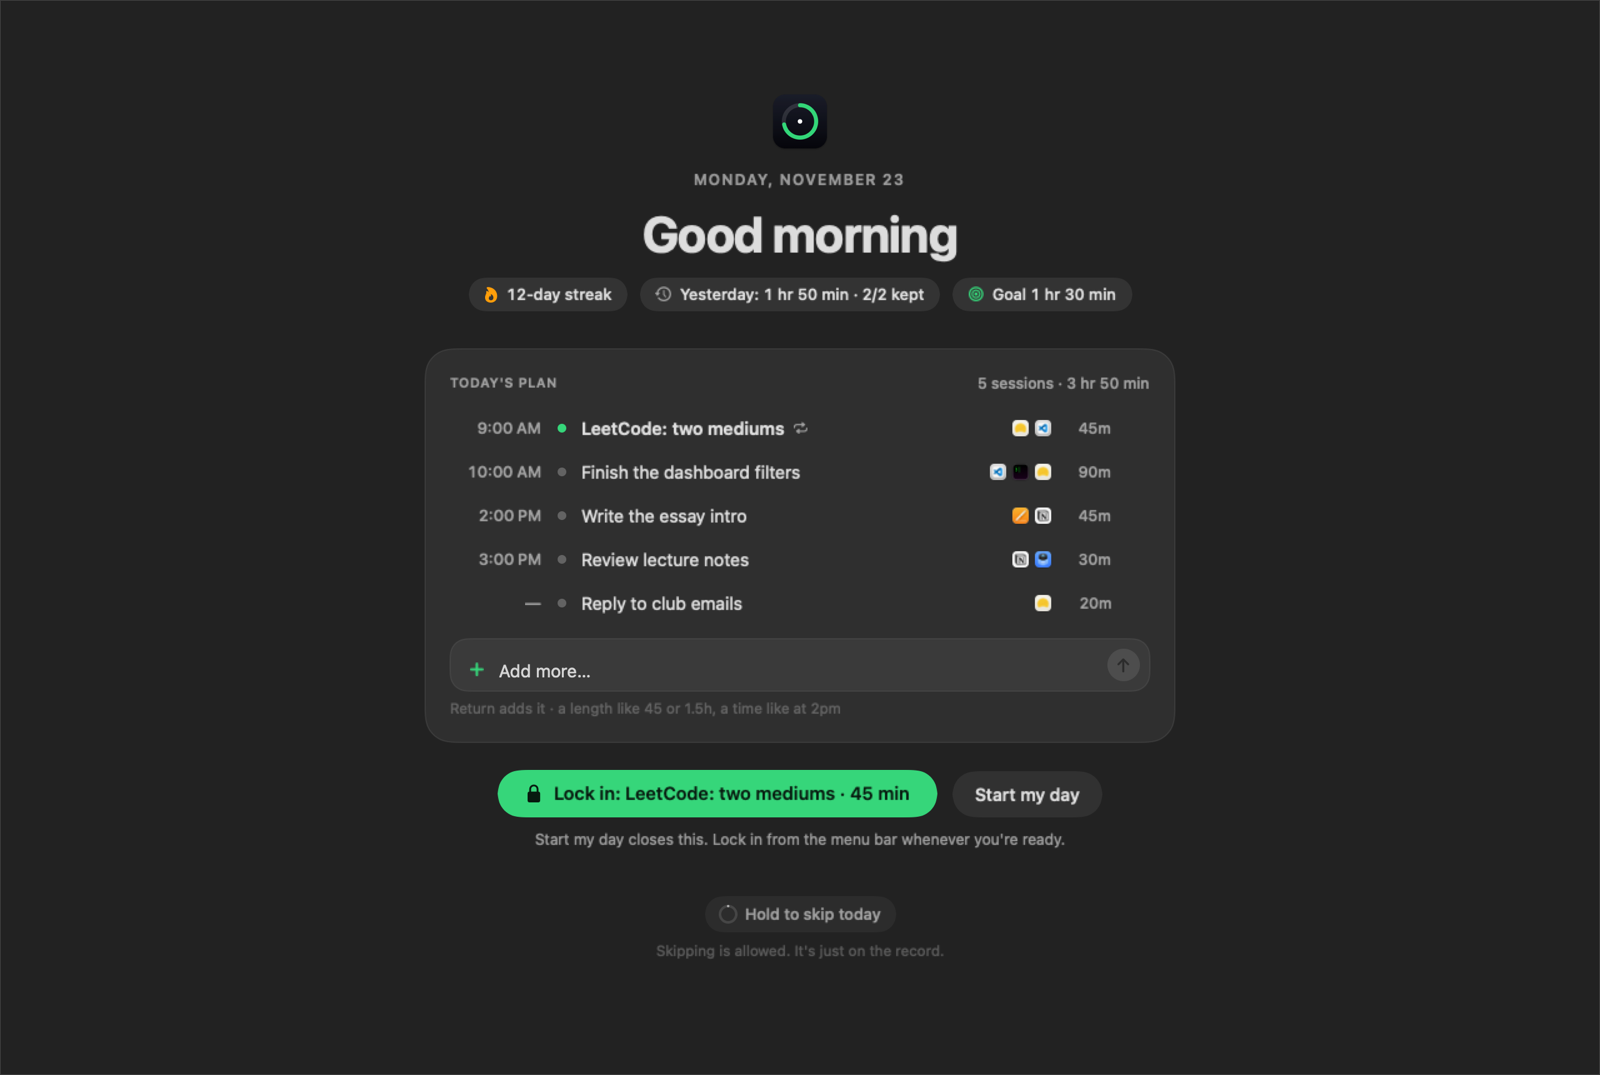
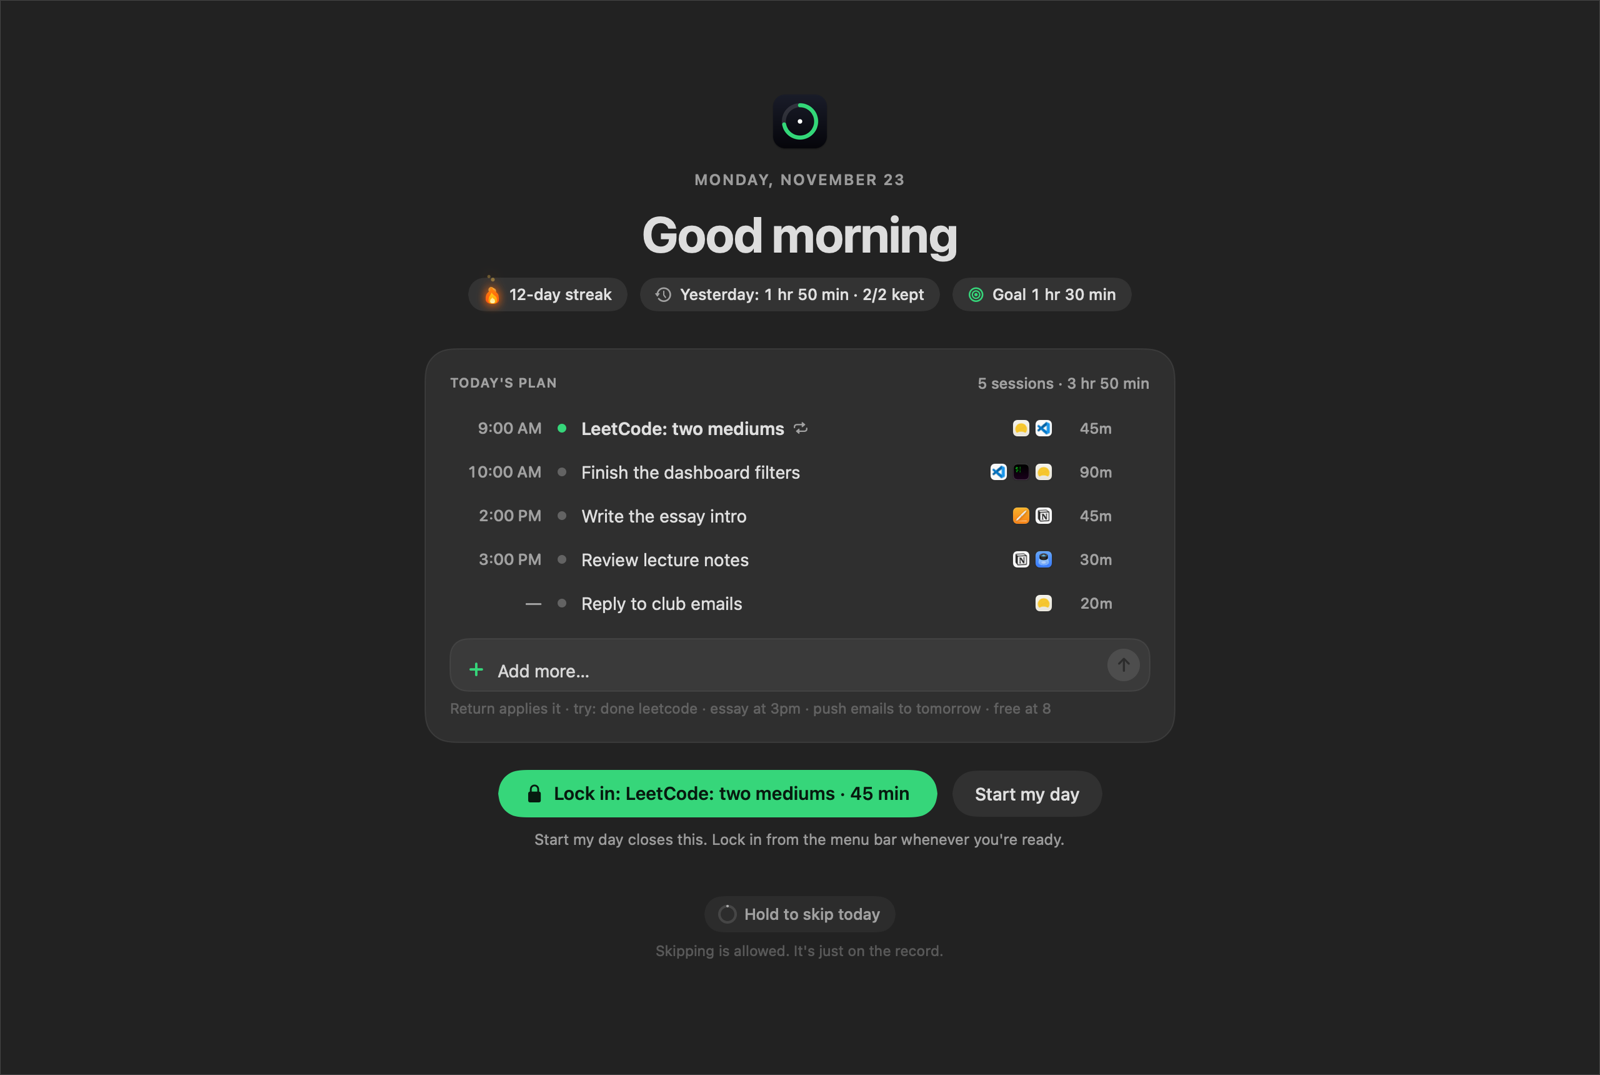
README: ranks and streak fire, refreshed screenshots

diff --git a/README.md b/README.md
@@ -20,20 +20,25 @@
 
 - **Your day comes first.** The first time you use your Mac each day, your plan covers the screen. Lock in on the
   first session or start your day. Skipping takes a 3-second hold and a reason, and it goes on the record.
-- **Plan in one line.** Type `leetcode 45, essay intro 30 at 2pm` and lockin times it around your calendar. No AI
-  needed. An optional AI planner (your Claude subscription, an API key, or a local model) can rework the day for you.
+- **Plan in one line.** Type `leetcode 45, essay intro 30 at 2pm` and lockin times it around your calendar, then edit
+  with `done leetcode` or `free at 8`. No AI needed. An optional AI planner can rework the day for you: Apple
+  Intelligence on your Mac (free), your Claude subscription, an API key, or a local model.
 - **A block that holds.** A session allows only the few apps it needs, picked from the task's words. Everything else
   gets covered, and in Locked mode it gets hidden. The cover takes the keyboard too, so there's no typing around it.
 - **Earn your free time.** YouTube, games and the rest stay covered until today's goal is met. Then they're yours.
 - **Accountability you can see.** Streaks, a year of history, and an honest record: sessions kept vs. ended early,
   mornings skipped, passes taken. Planned sessions start on their own, and calendar events ask before they lock you in.
+- **Rank up by doing real work.** XP, seven ranks from Rookie to Legend, 16 badges, a streak fire that changes color the
+  longer you keep it, and skins you unlock and equip. Only active minutes count, so idling or a mouse jiggler earns nothing.
 
 <p align="center">
   <img src="docs/today.png" width="410" alt="Today: timed sessions with the apps each one allows">
   &nbsp;
   <img src="docs/cover.png" width="410" alt="The cover over a distracting site during a session">
 </p>
-<p align="center"><img src="docs/stats.png" width="560" alt="Stats: streak, last 14 days, a year of history and the week on the record"></p>
+<p align="center"><img src="docs/ranks.png" width="820" alt="Ranks from Locked In to Legend"></p>
+<p align="center"><img src="docs/fire.png" width="820" alt="The streak fire, from out to prism fire at a year"></p>
+<p align="center"><img src="docs/stats.png" width="560" alt="Stats: your rank, streak, history, the week on the record, badges and skins"></p>
 
 ## Install
 
